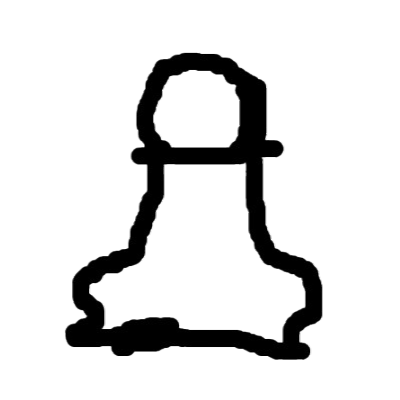
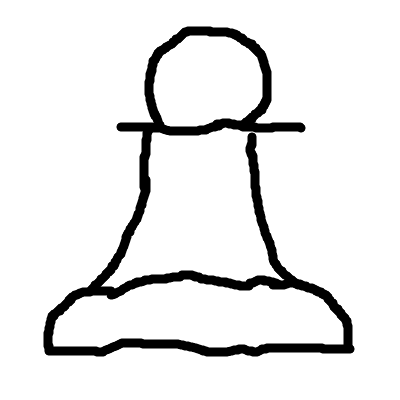
drew all pieces + add them to the setPieces function.

Changed region(s): [[0.09, 0.06, 0.9, 0.9]]

diff --git a/src/chess.cpp b/src/chess.cpp
@@ -47,17 +47,43 @@ Board::~Board() {}
 const std::string Board::getHistory() {return history;}
 const PlayerColor Board::getTurn() {return turn;}
 
+//should make this pick a random image from the pieces folder instead of hardcoding it
 void Board::setPieces() {
-    //should make this pick a random image from the pieces folder instead of hardcoding it
-    std::unique_ptr<Piece> p1 = std::make_unique<Pawn>(Column::A, Row::_2, PlayerColor::white, "../../img/white/pawn1.png");
-    std::unique_ptr<Piece> p2 = std::make_unique<Pawn>(Column::B, Row::_2, PlayerColor::white, "../../img/white/pawn1.png");
-    //pawn for now
-    std::unique_ptr<Piece> rook1 = std::make_unique<Pawn>(Column::A, Row::_1, PlayerColor::white, "../../img/white/rook.png");
-    std::unique_ptr<Piece> rook2 = std::make_unique<Pawn>(Column::A, Row::_8, PlayerColor::black, "../../img/black/rook.png");
+    //white piece
+    cells[static_cast<std::size_t>(Column::A)][static_cast<std::size_t>(Row::_2)] = std::make_unique<Pawn>(Column::A, Row::_2, PlayerColor::white, "../../img/white/pawn1.png");
+    cells[static_cast<std::size_t>(Column::B)][static_cast<std::size_t>(Row::_2)] = std::make_unique<Pawn>(Column::B, Row::_2, PlayerColor::white, "../../img/white/pawn1.png");
+    cells[static_cast<std::size_t>(Column::C)][static_cast<std::size_t>(Row::_2)] = std::make_unique<Pawn>(Column::C, Row::_2, PlayerColor::white, "../../img/white/pawn1.png");
+    cells[static_cast<std::size_t>(Column::D)][static_cast<std::size_t>(Row::_2)] = std::make_unique<Pawn>(Column::D, Row::_2, PlayerColor::white, "../../img/white/pawn1.png");
+    cells[static_cast<std::size_t>(Column::E)][static_cast<std::size_t>(Row::_2)] = std::make_unique<Pawn>(Column::E, Row::_2, PlayerColor::white, "../../img/white/pawn1.png");
+    cells[static_cast<std::size_t>(Column::F)][static_cast<std::size_t>(Row::_2)] = std::make_unique<Pawn>(Column::F, Row::_2, PlayerColor::white, "../../img/white/pawn1.png");
+    cells[static_cast<std::size_t>(Column::G)][static_cast<std::size_t>(Row::_2)] = std::make_unique<Pawn>(Column::G, Row::_2, PlayerColor::white, "../../img/white/pawn1.png");
+    cells[static_cast<std::size_t>(Column::H)][static_cast<std::size_t>(Row::_2)] = std::make_unique<Pawn>(Column::H, Row::_2, PlayerColor::white, "../../img/white/pawn1.png");
+    //pawns for now
+    cells[static_cast<std::size_t>(Column::A)][static_cast<std::size_t>(Row::_1)] = std::make_unique<Pawn>(Column::A, Row::_1, PlayerColor::white, "../../img/white/rook1.png");
+    cells[static_cast<std::size_t>(Column::B)][static_cast<std::size_t>(Row::_1)] = std::make_unique<Pawn>(Column::B, Row::_1, PlayerColor::white, "../../img/white/knight1.png");
+    cells[static_cast<std::size_t>(Column::C)][static_cast<std::size_t>(Row::_1)] = std::make_unique<Pawn>(Column::C, Row::_1, PlayerColor::white, "../../img/white/bishop1.png");
+    cells[static_cast<std::size_t>(Column::D)][static_cast<std::size_t>(Row::_1)] = std::make_unique<Pawn>(Column::D, Row::_1, PlayerColor::white, "../../img/white/queen1.png");
+    cells[static_cast<std::size_t>(Column::E)][static_cast<std::size_t>(Row::_1)] = std::make_unique<Pawn>(Column::E, Row::_1, PlayerColor::white, "../../img/white/king1.png");
+    cells[static_cast<std::size_t>(Column::F)][static_cast<std::size_t>(Row::_1)] = std::make_unique<Pawn>(Column::F, Row::_1, PlayerColor::white, "../../img/white/bishop1.png");
+    cells[static_cast<std::size_t>(Column::G)][static_cast<std::size_t>(Row::_1)] = std::make_unique<Pawn>(Column::G, Row::_1, PlayerColor::white, "../../img/white/knight1.png");
+    cells[static_cast<std::size_t>(Column::H)][static_cast<std::size_t>(Row::_1)] = std::make_unique<Pawn>(Column::H, Row::_1, PlayerColor::white, "../../img/white/rook1.png");
 
-    cells[static_cast<uint8_t>(p1->getCol())][static_cast<uint8_t>(p1->getRow())] = std::move(p1);
-    cells[static_cast<uint8_t>(p2->getCol())][static_cast<uint8_t>(p2->getRow())] = std::move(p2);
-    cells[static_cast<uint8_t>(rook1->getCol())][static_cast<uint8_t>(rook1->getRow())] = std::move(rook1);
-    cells[static_cast<uint8_t>(rook2->getCol())][static_cast<uint8_t>(rook2->getRow())] = std::move(rook2);
-
+    //black pieces
+    cells[static_cast<std::size_t>(Column::A)][static_cast<std::size_t>(Row::_7)] = std::make_unique<Pawn>(Column::A, Row::_7, PlayerColor::black, "../../img/black/pawn1.png");
+    cells[static_cast<std::size_t>(Column::B)][static_cast<std::size_t>(Row::_7)] = std::make_unique<Pawn>(Column::B, Row::_7, PlayerColor::black, "../../img/black/pawn1.png");
+    cells[static_cast<std::size_t>(Column::C)][static_cast<std::size_t>(Row::_7)] = std::make_unique<Pawn>(Column::C, Row::_7, PlayerColor::black, "../../img/black/pawn1.png");
+    cells[static_cast<std::size_t>(Column::D)][static_cast<std::size_t>(Row::_7)] = std::make_unique<Pawn>(Column::D, Row::_7, PlayerColor::black, "../../img/black/pawn1.png");
+    cells[static_cast<std::size_t>(Column::E)][static_cast<std::size_t>(Row::_7)] = std::make_unique<Pawn>(Column::E, Row::_7, PlayerColor::black, "../../img/black/pawn1.png");
+    cells[static_cast<std::size_t>(Column::F)][static_cast<std::size_t>(Row::_7)] = std::make_unique<Pawn>(Column::F, Row::_7, PlayerColor::black, "../../img/black/pawn1.png");
+    cells[static_cast<std::size_t>(Column::G)][static_cast<std::size_t>(Row::_7)] = std::make_unique<Pawn>(Column::G, Row::_7, PlayerColor::black, "../../img/black/pawn1.png");
+    cells[static_cast<std::size_t>(Column::H)][static_cast<std::size_t>(Row::_7)] = std::make_unique<Pawn>(Column::H, Row::_7, PlayerColor::black, "../../img/black/pawn1.png");
+    //pawns for now
+    cells[static_cast<std::size_t>(Column::A)][static_cast<std::size_t>(Row::_8)] = std::make_unique<Pawn>(Column::A, Row::_8, PlayerColor::black, "../../img/black/rook1.png");
+    cells[static_cast<std::size_t>(Column::B)][static_cast<std::size_t>(Row::_8)] = std::make_unique<Pawn>(Column::B, Row::_8, PlayerColor::black, "../../img/black/knight1.png");
+    cells[static_cast<std::size_t>(Column::C)][static_cast<std::size_t>(Row::_8)] = std::make_unique<Pawn>(Column::C, Row::_8, PlayerColor::black, "../../img/black/bishop1.png");
+    cells[static_cast<std::size_t>(Column::D)][static_cast<std::size_t>(Row::_8)] = std::make_unique<Pawn>(Column::D, Row::_8, PlayerColor::black, "../../img/black/queen1.png");
+    cells[static_cast<std::size_t>(Column::E)][static_cast<std::size_t>(Row::_8)] = std::make_unique<Pawn>(Column::E, Row::_8, PlayerColor::black, "../../img/black/king1.png");
+    cells[static_cast<std::size_t>(Column::F)][static_cast<std::size_t>(Row::_8)] = std::make_unique<Pawn>(Column::F, Row::_8, PlayerColor::black, "../../img/black/bishop1.png");
+    cells[static_cast<std::size_t>(Column::G)][static_cast<std::size_t>(Row::_8)] = std::make_unique<Pawn>(Column::G, Row::_8, PlayerColor::black, "../../img/black/knight1.png");
+    cells[static_cast<std::size_t>(Column::H)][static_cast<std::size_t>(Row::_8)] = std::make_unique<Pawn>(Column::H, Row::_8, PlayerColor::black, "../../img/black/rook1.png");
 }

diff --git a/README.md b/README.md
@@ -6,3 +6,4 @@ my chess engine using raylib
 2. Implement piece movements
 3. Implement game string lexer
 4. Implement rules
+5. consider which enums should be strongly defined or weakly
